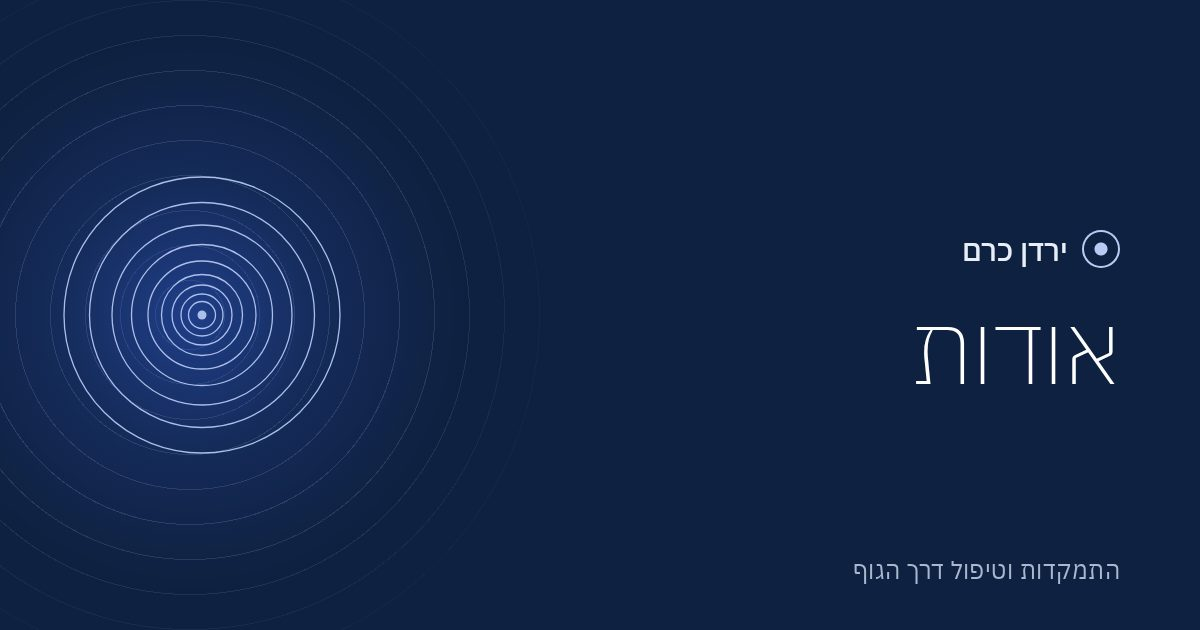
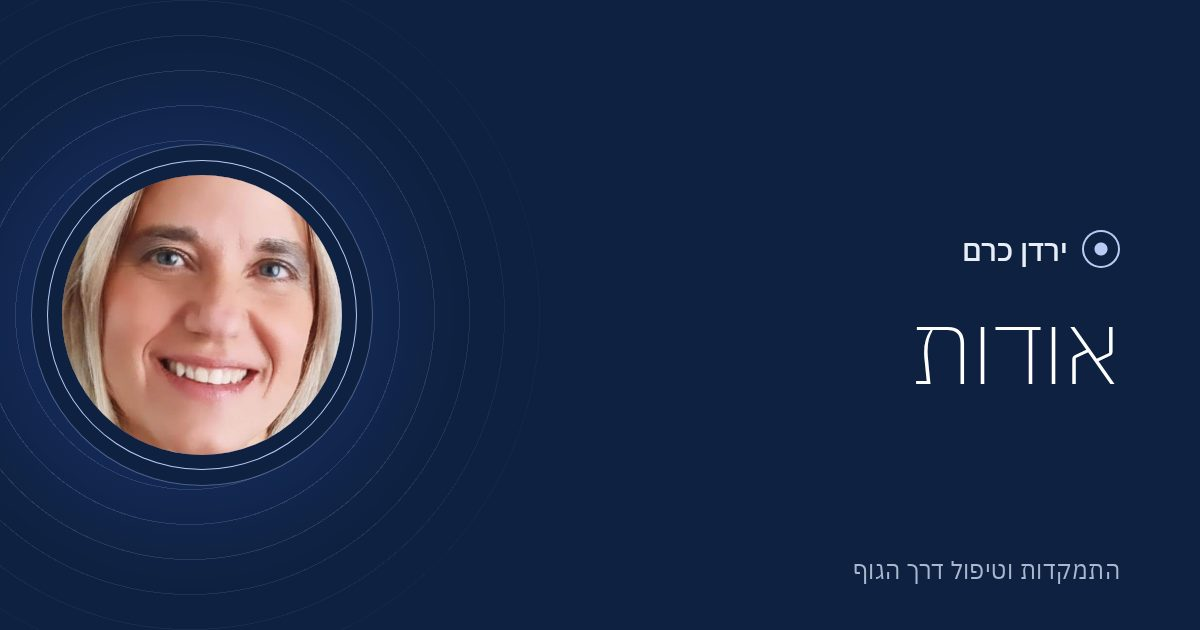
Yarden's photo: at the centre of the lens in the home hero, on About, in key share images
The photo is cropped square around the face and saved without metadata.

Claude-Session: https://claude.ai/code/session_014A9Rt8sVo3QZg3Ea7hN3fG

Changed region(s): [[0.0308, 0.2413, 0.3083, 0.754]]

diff --git a/web/public/assets/style.css b/web/public/assets/style.css
@@ -219,6 +219,18 @@ strong, b { font-weight: 600; }
 .hero .btn--line:hover { background: var(--paper); color: var(--ink) !important; }
 @media (max-width: 860px) { .hero__foot { grid-template-columns: 1fr; } }
 
+/* Yarden, at the centre of the lens, coming into focus with the title */
+.portrait.hero__portrait {
+  --pw: clamp(220px, 21vw, 320px);
+  position: absolute; top: 50%; inset-inline-end: calc(var(--lens) * .22 - var(--pw) / 2);
+  width: var(--pw); translate: 0 -50%;
+  animation: focus-in 2s .15s cubic-bezier(.2, .6, .1, 1) both;
+}
+.portrait.hero__portrait::after { border-color: rgba(185, 203, 245, .22); }
+@media (max-width: 980px) {
+  .portrait.hero__portrait { position: relative; top: auto; inset: auto; translate: none; width: 128px; margin: 0 30px 44px; }
+}
+
 /* In-page contents (built by main.js from the section headings) -----------*/
 .toc { position: sticky; top: var(--header-h); z-index: 30; margin-top: 12px; background: var(--paper); box-shadow: 0 1px 0 var(--rule); }
 .toc__inner { display: flex; align-items: center; gap: 6px; overflow-x: auto; scrollbar-width: none; padding: 8px 0; -webkit-mask-image: linear-gradient(to left, #000 92%, transparent); mask-image: linear-gradient(to left, #000 92%, transparent); }
@@ -754,7 +766,7 @@ img.is-missing, .figure.is-missing, .gallery figure.is-missing { display: none; 
 .whatsapp:hover { color: #fff; }
 
 @media (prefers-reduced-motion: reduce) {
-  .hero h1 span, .page-hero h1, .hero::before, .page-hero::before { animation: none; }
+  .hero h1 span, .page-hero h1, .hero::before, .page-hero::before, .page-hero::after, .hero__portrait { animation: none; }
   * { transition: none !important; }
 }
 @media print { .site-header, .whatsapp, .block--contact, .site-footer, .toc, .a11y-btn { display: none; } .hero, .page-hero { background: none; color: #000; } .page-hero h1, .hero h1 { color: #000; } }

diff --git a/web/content/updates/2026-10-home.body.html b/web/content/updates/2026-10-home.body.html
@@ -1,5 +1,6 @@
 <section class="hero">
   <div class="wrap">
+    <figure class="portrait hero__portrait"><span class="portrait__mark" aria-hidden="true"></span><img src="/assets/yarden.jpg" alt="ירדן כרם" width="640" height="640" fetchpriority="high" decoding="async"></figure>
     <h1><span>להקשיב פנימה.</span><span>לזוז החוצה.</span></h1>
     <div class="hero__foot">
       <div>
@@ -97,7 +98,6 @@
   <div class="wrap about">
     <div class="about__side">
       <h2>אני כאן כדי ללמד הקשבה לגוף</h2>
-      <figure class="portrait"><span class="portrait__mark" aria-hidden="true"></span><img src="/assets/yarden.jpg" alt="ירדן כרם" width="640" height="640" loading="lazy" decoding="async"></figure>
     </div>
     <div class="body">
       <p>אני מטפלת ומרצה כבר 30 שנה, מרצה בכירה לגישת ההתמקדות ולקורסים שעוסקים בטראומה. לימדתי יותר מ־750 תלמידים, ומאחוריי יותר מ־25,000 שעות טיפול.</p>

diff --git a/README.md b/README.md
@@ -39,7 +39,7 @@ node --import ./test/register.mjs test/sanitize.test.mjs
 
 ## עיצוב: תמונות, איורים ותמונות שיתוף
 
-- **התמונה של ירדן:** קובץ אחד, `web/public/assets/yarden.jpg` (ריבועי, לפחות 640×640). מופיעה בדף הבית ובעמוד אודות בתוך מסגרת עדשה. עד שהקובץ קיים מוצג במקומה סמל העדשה.
+- **התמונה של ירדן:** `web/public/assets/yarden.jpg` (ריבועית, חתוכה סביב הפנים, בלי מטא־דאטה). מופיעה במרכז העדשה בראש דף הבית, בעמוד אודות ובתמונות השיתוף של דף הבית, אודות, טיפול אישי וצור קשר. אם הקובץ חסר מוצג במקומה סמל העדשה.
 - **איורים:** `web/scripts/gen-art.mjs` מצייר את מוטיבי הקו (`public/assets/art/`), מוטיב לכל נושא. השיוך של עמוד לנושא נמצא ב־`web/lib/art.js`.
 - **תמונות שיתוף (og:image):** `node web/scripts/gen-og.mjs` מייצר תמונה 1200×630 לכל עמוד ולכל מאמר בלי תמונה משלו (`public/og/`). דורש Playwright, ולכן מריצים אותו במחשב פיתוח ומעלים את הקבצים לגיט.
 - **כותרות סרטונים:** `web/content/video-titles.json` (מתוך YouTube oEmbed). סרטון שהוסר מיוטיוב מוצג כהודעה במקום נגן.
